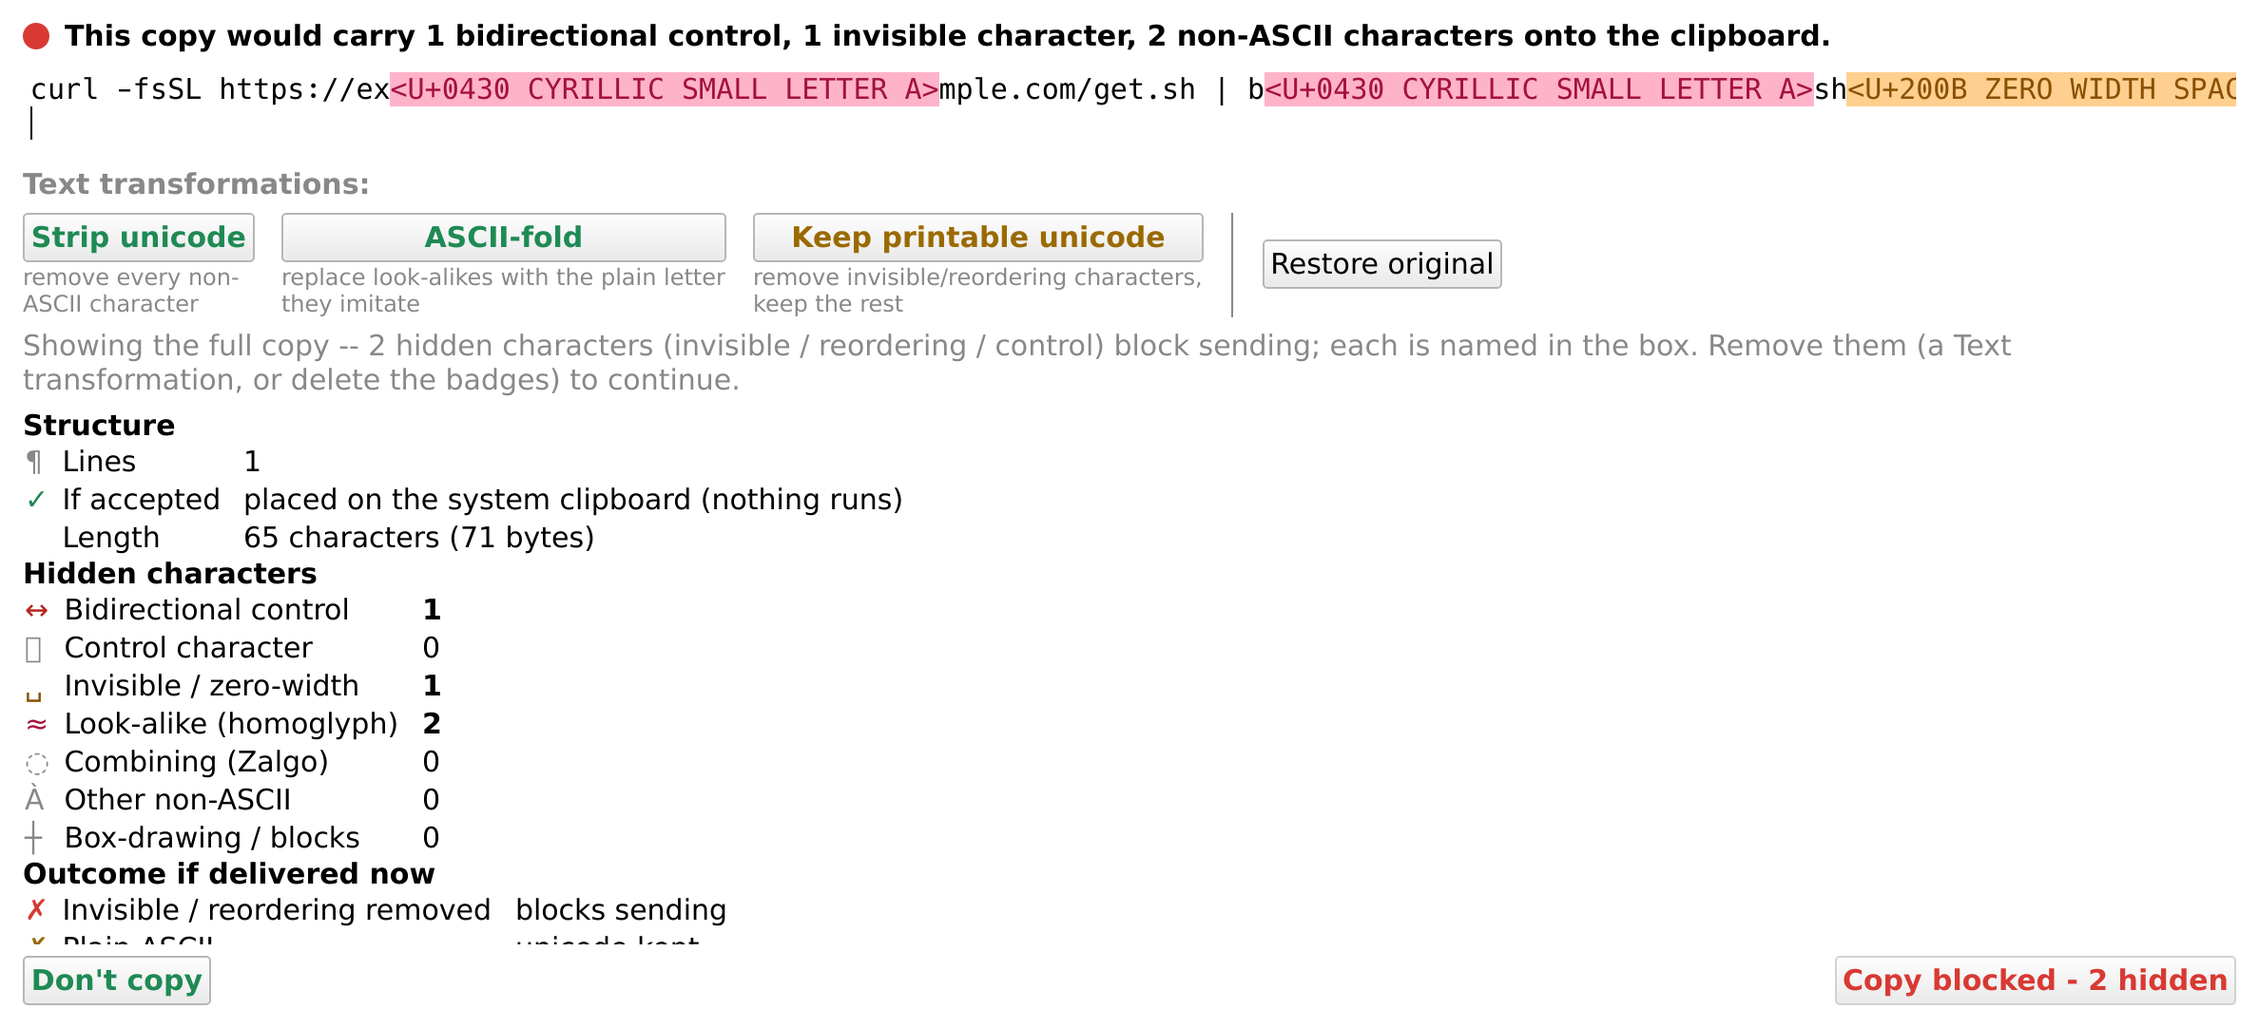
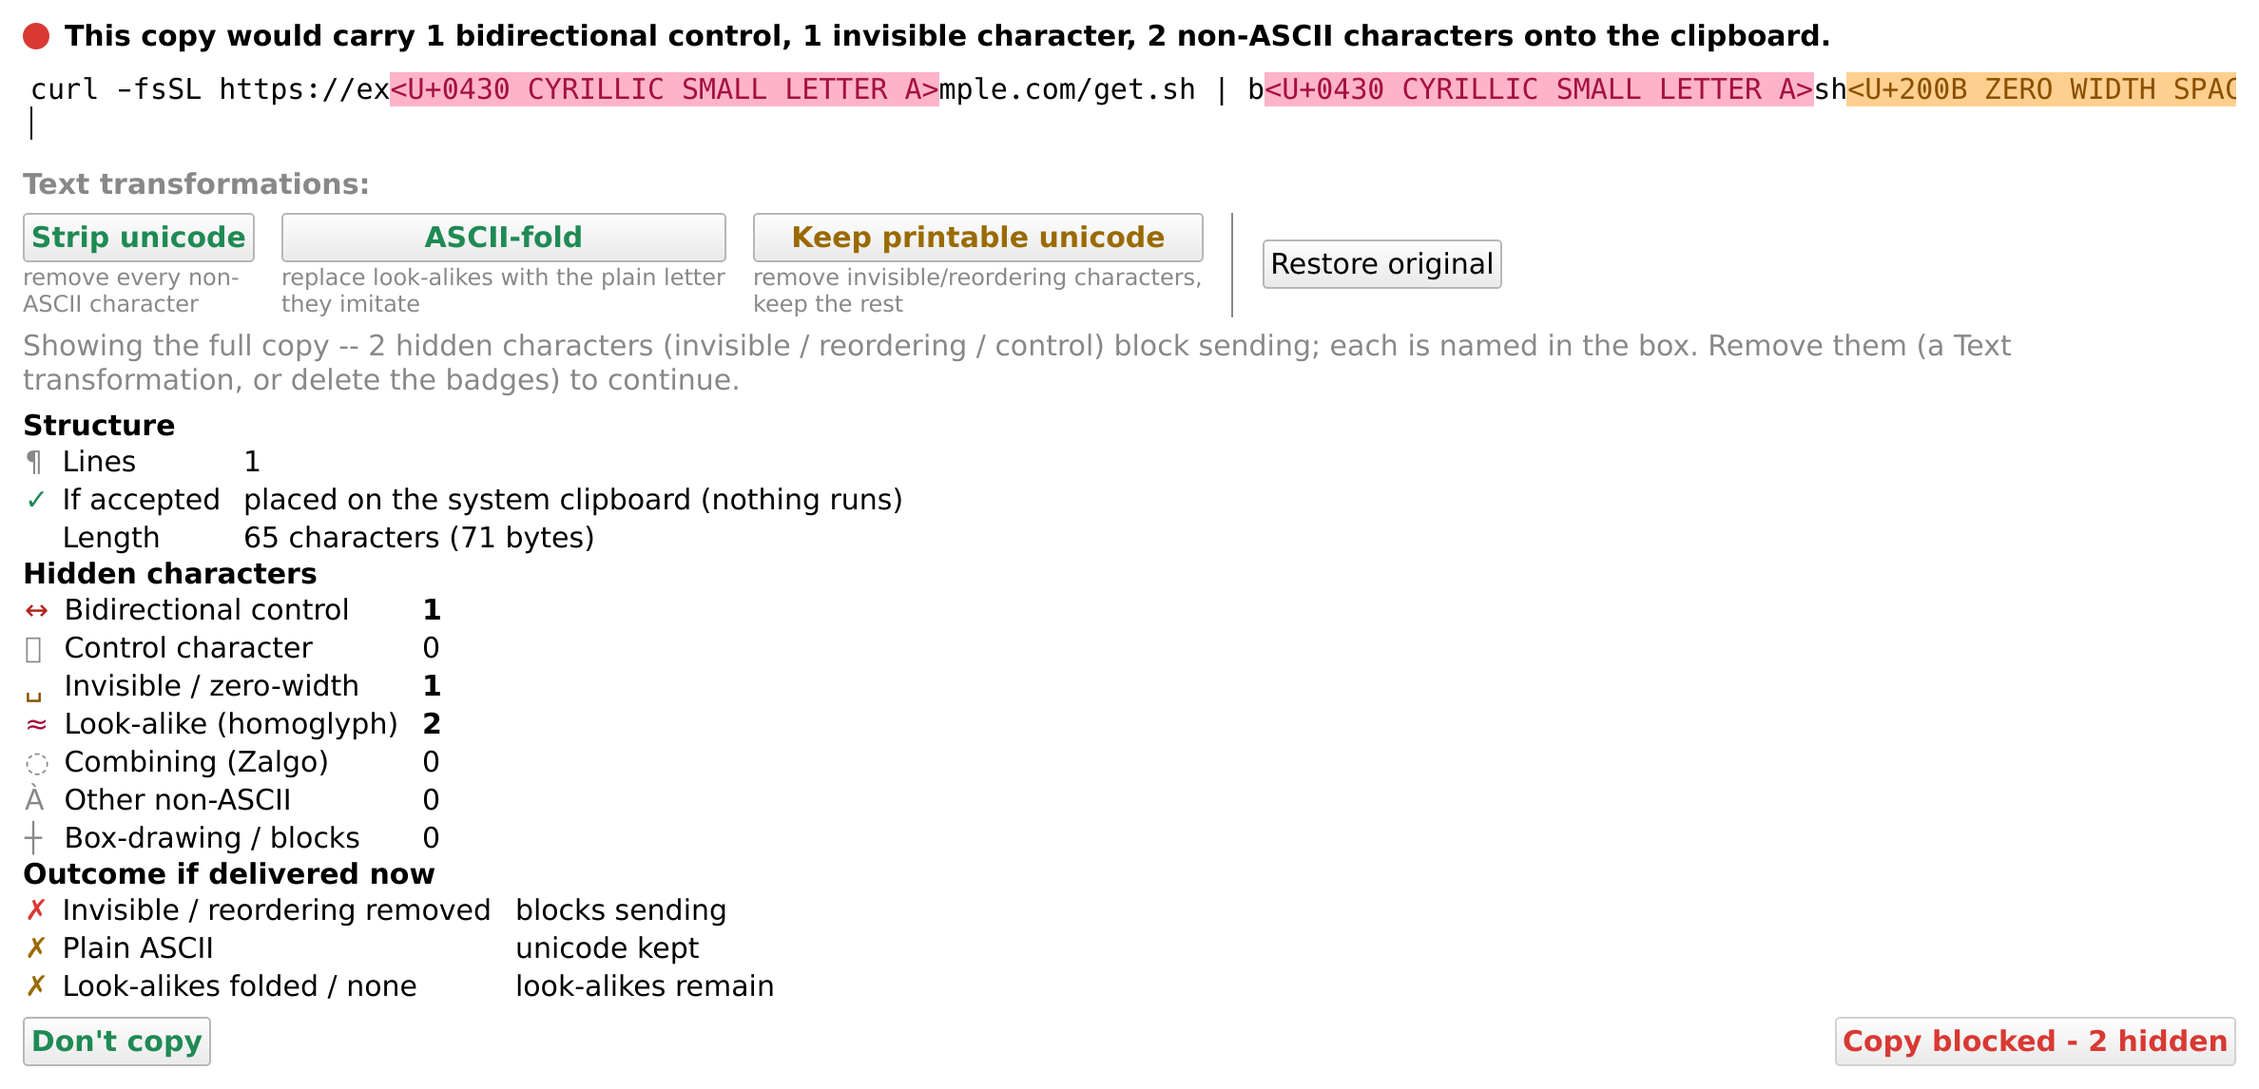
Regenerate review shots with the fixed bar layout
- paste/copy-warning shots were captured before the overlap fix, so the decision
  row sat over the bottom Outcome row. Regenerated with the fixed generator; the
  full breakdown now shows above the buttons.
- Correct the stale 2376x622 aspect hint to the real 2376x1146 (height:auto uses
  it to reserve space), removing the on-load layout shift.

diff --git a/index.html b/index.html
@@ -304,7 +304,7 @@
   <figure class="shot" style="max-width:1000px;margin:28px auto 0">
     <figcaption class="shotname"><b>The paste review</b> - a <code>curl | bash</code> line hiding two Cyrillic
       homoglyphs (in <code>example</code> and <code>bash</code>), a zero-width space and a right-to-left override.</figcaption>
-    <a href="/shots/paste-warning.webp" target="_blank" rel="noopener"><img src="/shots/paste-warning.webp" width="2376" height="622" loading="lazy" alt="secure-terminal's in-window paste-review bar holding a hostile 'curl | bash' paste before any byte reaches the shell. A red dot and the summary 'This paste hides 1 bidirectional control, 1 invisible character, 2 non-ASCII characters.' head the bar, with a Restore original button, a safe-green Reject button and a red, disabled 'Paste blocked - 2 hidden' button top-right. Below is the ONE editable box that opens FULLY REVEALED: nothing is dropped, so the two Cyrillic look-alikes are highlighted and named inline as U+0430 CYRILLIC SMALL LETTER A, and the invisible and the reordering override are shown IN PLACE as named badges, U+200B ZERO WIDTH SPACE and U+202E RIGHT-TO-LEFT OVERRIDE. A status line reads 'Showing the full paste - 2 hidden characters (invisible / reordering / control) block sending; each is named in the box. Remove them (a Text transformation, or delete the badges) to continue.' Under a 'Text transformations:' heading three buttons offer Strip unicode, ASCII-fold and Keep printable unicode, each with a plain-language gloss. A Structure section lists 1 line, an 'If accepted: waits on the command line - press Enter to run' guarantee and a 65-character length, and a live per-class Hidden-characters table names Bidirectional control 1, Invisible / zero-width 1 and Look-alike (homoglyph) 2, every other class 0."></a>
+    <a href="/shots/paste-warning.webp" target="_blank" rel="noopener"><img src="/shots/paste-warning.webp" width="2376" height="1146" loading="lazy" alt="secure-terminal's in-window paste-review bar holding a hostile 'curl | bash' paste before any byte reaches the shell. A red dot and the summary 'This paste hides 1 bidirectional control, 1 invisible character, 2 non-ASCII characters.' head the bar, with a Restore original button, a safe-green Reject button and a red, disabled 'Paste blocked - 2 hidden' button top-right. Below is the ONE editable box that opens FULLY REVEALED: nothing is dropped, so the two Cyrillic look-alikes are highlighted and named inline as U+0430 CYRILLIC SMALL LETTER A, and the invisible and the reordering override are shown IN PLACE as named badges, U+200B ZERO WIDTH SPACE and U+202E RIGHT-TO-LEFT OVERRIDE. A status line reads 'Showing the full paste - 2 hidden characters (invisible / reordering / control) block sending; each is named in the box. Remove them (a Text transformation, or delete the badges) to continue.' Under a 'Text transformations:' heading three buttons offer Strip unicode, ASCII-fold and Keep printable unicode, each with a plain-language gloss. A Structure section lists 1 line, an 'If accepted: waits on the command line - press Enter to run' guarantee and a 65-character length, and a live per-class Hidden-characters table names Bidirectional control 1, Invisible / zero-width 1 and Look-alike (homoglyph) 2, every other class 0."></a>
     <figcaption>The bar names what is hidden at the top, then shows the paste in <b>one editable box that opens
       fully revealed</b> - nothing is silently pre-dropped, so a trap cannot hide by being cleaned away before
       you see it: each look-alike is tinted and named inline, and every invisible or reordering character is
@@ -319,7 +319,7 @@
   <figure class="shot" style="max-width:1000px;margin:28px auto 0">
     <figcaption class="shotname"><b>The same bar, for copy going the other way</b> - selecting and copying that
       same line in Show mode, before it reaches the system clipboard.</figcaption>
-    <a href="/shots/copy-warning.webp" target="_blank" rel="noopener"><img src="/shots/copy-warning.webp" width="2376" height="622" loading="lazy" alt="secure-terminal's review bar reviewing a copy going out to the system clipboard. The summary reads 'This copy would carry 1 bidirectional control, 1 invisible character, 2 non-ASCII characters onto the clipboard.' It is the same fully-revealed single-box layout as the paste bar - the two Cyrillic look-alikes highlighted and named inline, the invisible and the reordering override shown in place as named badges - with a 'Showing the full copy - 2 hidden characters block sending' status line, Strip unicode / ASCII-fold / Keep printable unicode transforms, a Structure section whose 'If accepted' guarantee reads 'placed on the system clipboard (nothing runs)', and a live per-class Hidden-characters table naming Bidirectional control 1, Invisible / zero-width 1 and Look-alike (homoglyph) 2. The reject button reads Don't copy and the Copy button is disabled and red, 'Copy blocked - 2 hidden'; there is no countdown, since a copy is not executed."></a>
+    <a href="/shots/copy-warning.webp" target="_blank" rel="noopener"><img src="/shots/copy-warning.webp" width="2376" height="1146" loading="lazy" alt="secure-terminal's review bar reviewing a copy going out to the system clipboard. The summary reads 'This copy would carry 1 bidirectional control, 1 invisible character, 2 non-ASCII characters onto the clipboard.' It is the same fully-revealed single-box layout as the paste bar - the two Cyrillic look-alikes highlighted and named inline, the invisible and the reordering override shown in place as named badges - with a 'Showing the full copy - 2 hidden characters block sending' status line, Strip unicode / ASCII-fold / Keep printable unicode transforms, a Structure section whose 'If accepted' guarantee reads 'placed on the system clipboard (nothing runs)', and a live per-class Hidden-characters table naming Bidirectional control 1, Invisible / zero-width 1 and Look-alike (homoglyph) 2. The reject button reads Don't copy and the Copy button is disabled and red, 'Copy blocked - 2 hidden'; there is no countdown, since a copy is not executed."></a>
     <figcaption>Copy is reviewed with the <b>same fully-revealed bar</b>, relabelled for the other direction (the
       reject button reads <b>Don't copy</b>). The box is the exact preview of what would land on the clipboard,
       and the same Strip unicode / ASCII-fold / Keep printable unicode transforms clear it. The <b>If accepted</b>

diff --git a/review/index.html b/review/index.html
@@ -77,12 +77,12 @@
     <figcaption class="shotname"><b>The paste review</b> - a <code>curl | bash</code> line hiding two Cyrillic
       look-alikes (in <code>example</code> and <code>bash</code>), a zero-width space and a right-to-left override,
       opened <b>fully revealed</b>.</figcaption>
-    <a href="/shots/paste-warning.webp" target="_blank" rel="noopener"><img src="/shots/paste-warning.webp" width="2376" height="622" loading="lazy" alt="secure-terminal's in-window paste-review bar holding a hostile 'curl | bash' paste before any byte reaches the shell. A red dot and the summary 'This paste hides 1 bidirectional control, 1 invisible character, 2 non-ASCII characters.' head the bar, with a Restore original button, a safe-green Reject button and a red, disabled 'Paste blocked - 2 hidden' button top-right. The ONE editable box opens fully revealed: nothing is dropped, so the two Cyrillic look-alikes are highlighted and named inline as U+0430 CYRILLIC SMALL LETTER A, and the invisible and the reordering override are shown in place as named badges, U+200B ZERO WIDTH SPACE and U+202E RIGHT-TO-LEFT OVERRIDE. A status line reads 'Showing the full paste - 2 hidden characters block sending; each is named in the box. Remove them to continue.' Under a 'Text transformations:' heading, Strip unicode, ASCII-fold and Keep printable unicode buttons each carry a plain-language gloss. A Structure section lists 1 line, an 'If accepted: waits on the command line - press Enter to run' guarantee and a 65-character length; a live per-class Hidden-characters table names Bidirectional control 1, Invisible / zero-width 1 and Look-alike (homoglyph) 2, every other class 0."></a>
+    <a href="/shots/paste-warning.webp" target="_blank" rel="noopener"><img src="/shots/paste-warning.webp" width="2376" height="1146" loading="lazy" alt="secure-terminal's in-window paste-review bar holding a hostile 'curl | bash' paste before any byte reaches the shell. A red dot and the summary 'This paste hides 1 bidirectional control, 1 invisible character, 2 non-ASCII characters.' head the bar, with a Restore original button, a safe-green Reject button and a red, disabled 'Paste blocked - 2 hidden' button top-right. The ONE editable box opens fully revealed: nothing is dropped, so the two Cyrillic look-alikes are highlighted and named inline as U+0430 CYRILLIC SMALL LETTER A, and the invisible and the reordering override are shown in place as named badges, U+200B ZERO WIDTH SPACE and U+202E RIGHT-TO-LEFT OVERRIDE. A status line reads 'Showing the full paste - 2 hidden characters block sending; each is named in the box. Remove them to continue.' Under a 'Text transformations:' heading, Strip unicode, ASCII-fold and Keep printable unicode buttons each carry a plain-language gloss. A Structure section lists 1 line, an 'If accepted: waits on the command line - press Enter to run' guarantee and a 65-character length; a live per-class Hidden-characters table names Bidirectional control 1, Invisible / zero-width 1 and Look-alike (homoglyph) 2, every other class 0."></a>
   </figure>
   <figure class="shot" style="max-width:1000px;margin:24px auto 0">
     <figcaption class="shotname"><b>The same bar for a copy</b> - the "If accepted" row is present here too, and
       reads <code>placed on the system clipboard (nothing runs)</code>.</figcaption>
-    <a href="/shots/copy-warning.webp" target="_blank" rel="noopener"><img src="/shots/copy-warning.webp" width="2376" height="622" loading="lazy" alt="secure-terminal's review bar reviewing a copy going out to the system clipboard. The summary reads 'This copy would carry 1 bidirectional control, 1 invisible character, 2 non-ASCII characters onto the clipboard.' It is the same fully-revealed single-box layout as the paste bar, with Strip unicode / ASCII-fold / Keep printable unicode transforms and a Structure section whose 'If accepted' guarantee reads 'placed on the system clipboard (nothing runs)'. The reject button reads Don't copy and the Copy button is disabled and red, 'Copy blocked - 2 hidden'; there is no countdown, since a copy is not executed."></a>
+    <a href="/shots/copy-warning.webp" target="_blank" rel="noopener"><img src="/shots/copy-warning.webp" width="2376" height="1146" loading="lazy" alt="secure-terminal's review bar reviewing a copy going out to the system clipboard. The summary reads 'This copy would carry 1 bidirectional control, 1 invisible character, 2 non-ASCII characters onto the clipboard.' It is the same fully-revealed single-box layout as the paste bar, with Strip unicode / ASCII-fold / Keep printable unicode transforms and a Structure section whose 'If accepted' guarantee reads 'placed on the system clipboard (nothing runs)'. The reject button reads Don't copy and the Copy button is disabled and red, 'Copy blocked - 2 hidden'; there is no countdown, since a copy is not executed."></a>
   </figure>
   <div class="repro"><div class="reprohd"><a class="repro-try" href="/screenshots/#shot-paste-review">Reproduce this</a> <span class="rnote">&middot; put a hostile paste on the clipboard and Ctrl-Shift-V into secure-terminal - the bar holds it; copyable commands are on the <a href="/screenshots/#shot-paste-review">screenshots</a> and <a href="/comparison/">comparison</a> pages.</span></div></div>
 </div>

diff --git a/comparison/index.html b/comparison/index.html
@@ -389,7 +389,7 @@ cat random.payload</code><button class="copybtn" type="button" hidden>Copy</butt
           </tr>
           <tr class="minfo"><td colspan="3"><div class="rowinfo"><input class="rowtoggle" type="checkbox" id="ri-paste"><label class="rowsum" for="ri-paste">The command you copy is not the command you run<span class="ihint"><span class="ihint-show">Show</span><span class="ihint-hide">Hide</span></span></label><div class="ibody">
             <p>A command copied from a web page can carry a whole second command chained on with <code>&amp;&amp;</code> and an invisible byte at the seam - it draws nothing, so a normal terminal shows no sign it is there. Modern shells mitigate multi-line paste with bracketed paste, but it is opt-in and one-line <code>&amp;&amp;</code> tricks slip through. secure-terminal catches any invisible, control or bidi character in a paste, names what is hidden, and lets you drop it to ASCII or cancel. See the <b><a href="/attacks/#paste-demo">live pastejacking demo</a></b> and the full still-applicable list on the <a href="/attacks/">attacks page</a>.</p>
-            <figure class="shot" style="margin-top:6px"><figcaption class="shotname"><b>secure-terminal's paste review</b> - the same hostile <code>curl | bash</code> paste, held inside the window before a byte reaches the shell: the summary names what is hidden, and ONE editable, revealed box is the exact preview of what would cross - the look-alikes shown highlighted and named inline, the invisibles dropped. Strip unicode, ASCII-fold and Restore-original buttons transform the box in place, and a live per-class table breaks down what is still hidden. Rendered headless from the real review bar.</figcaption><a href="/shots/paste-warning.webp" target="_blank" rel="noopener"><img src="/shots/paste-warning.webp" width="2376" height="622" loading="lazy" alt="secure-terminal's in-window paste-review bar holding a hostile curl-bash paste: a summary of what is hidden, ONE editable revealed box showing the paste with its two Cyrillic look-alikes highlighted and named inline as U+0430 CYRILLIC SMALL LETTER A while the invisibles are dropped, a 'Keeping printable unicode' status line, Strip unicode / ASCII-fold / Restore original paste buttons, a Structure section, and a live per-class Hidden-characters table naming Look-alike (homoglyph) 2 in its risk-class colour."></a></figure>
+            <figure class="shot" style="margin-top:6px"><figcaption class="shotname"><b>secure-terminal's paste review</b> - the same hostile <code>curl | bash</code> paste, held inside the window before a byte reaches the shell: the summary names what is hidden, and ONE editable, revealed box is the exact preview of what would cross - the look-alikes shown highlighted and named inline, the invisibles dropped. Strip unicode, ASCII-fold and Restore-original buttons transform the box in place, and a live per-class table breaks down what is still hidden. Rendered headless from the real review bar.</figcaption><a href="/shots/paste-warning.webp" target="_blank" rel="noopener"><img src="/shots/paste-warning.webp" width="2376" height="1146" loading="lazy" alt="secure-terminal's in-window paste-review bar holding a hostile curl-bash paste: a summary of what is hidden, ONE editable revealed box showing the paste with its two Cyrillic look-alikes highlighted and named inline as U+0430 CYRILLIC SMALL LETTER A while the invisibles are dropped, a 'Keeping printable unicode' status line, Strip unicode / ASCII-fold / Restore original paste buttons, a Structure section, and a live per-class Hidden-characters table naming Look-alike (homoglyph) 2 in its risk-class colour."></a></figure>
           <div class="repro sandbox"><div class="reprohd"><a class="repro-try" href="/attacks/#paste-demo">Try the live paste demo</a> <span class="sbtag">sandbox VM only</span> <span class="rnote">&middot; then paste (Ctrl-Shift-V) into secure-terminal</span> &middot; <a href="https://github.com/secure-terminal/terminal-poc-corpus/tree/master/poc/bracketed-paste-bypass-2021" rel="noopener">view the PoC on GitHub &rarr;</a></div><div class="copybox"><code class="cmd">base64 -d poc/bracketed-paste-bypass-2021/payload.b64 &gt; paste.payload</code><button class="copybtn" type="button" hidden>Copy</button></div><div class="copybox"><code class="cmd">xclip -selection clipboard &lt; paste.payload    # X11</code><button class="copybtn" type="button" hidden>Copy</button></div><div class="copybox"><code class="cmd">wl-copy &lt; paste.payload    # Wayland</code><button class="copybtn" type="button" hidden>Copy</button></div></div></div></div></td></tr>
 
           <tr class="mrow" id="row-fullscreen">

diff --git a/screenshots/index.html b/screenshots/index.html
@@ -81,12 +81,12 @@
 
   <h3 id="shot-paste-review"><a class="h-anchor" href="#shot-paste-review">Paste review bar</a></h3>
   <p class="catdesc">a hostile <code>curl | bash</code> paste held before a byte reaches the shell, every hidden character named inline.</p>
-  <div class="shotgrid"><figure class="shot"><a href="/shots/paste-warning.webp" target="_blank" rel="noopener"><img src="/shots/paste-warning.webp" width="2376" height="622" loading="lazy" alt="secure-terminal paste review bar holding a hostile paste, every hidden character named inline."></a></figure></div>
+  <div class="shotgrid"><figure class="shot"><a href="/shots/paste-warning.webp" target="_blank" rel="noopener"><img src="/shots/paste-warning.webp" width="2376" height="1146" loading="lazy" alt="secure-terminal paste review bar holding a hostile paste, every hidden character named inline."></a></figure></div>
   <div class="repro sandbox"><div class="reprohd"><span class="repro-try">Reproduce</span> <span class="sbtag">sandbox VM only</span> <span class="rnote">&middot; a pasted attack, not cat - Ctrl-Shift-V into secure-terminal and the review bar holds it</span> &middot; <a href="https://github.com/secure-terminal/terminal-poc-corpus/tree/master/poc/bracketed-paste-bypass-2021" rel="noopener">view the PoC on GitHub &rarr;</a></div><div class="copybox"><code class="cmd">base64 -d poc/bracketed-paste-bypass-2021/payload.b64 &gt; paste.payload</code><button class="copybtn" type="button" hidden>Copy</button></div><div class="copybox"><code class="cmd">xclip -selection clipboard &lt; paste.payload    # X11</code><button class="copybtn" type="button" hidden>Copy</button></div><div class="copybox"><code class="cmd">wl-copy &lt; paste.payload    # Wayland</code><button class="copybtn" type="button" hidden>Copy</button></div></div>
 
   <h3 id="shot-copy-review"><a class="h-anchor" href="#shot-copy-review">Copy review bar</a></h3>
   <p class="catdesc">the same review applied to text leaving for the system clipboard.</p>
-  <div class="shotgrid"><figure class="shot"><a href="/shots/copy-warning.webp" target="_blank" rel="noopener"><img src="/shots/copy-warning.webp" width="2376" height="622" loading="lazy" alt="secure-terminal copy review bar reviewing text going to the system clipboard."></a></figure></div>
+  <div class="shotgrid"><figure class="shot"><a href="/shots/copy-warning.webp" target="_blank" rel="noopener"><img src="/shots/copy-warning.webp" width="2376" height="1146" loading="lazy" alt="secure-terminal copy review bar reviewing text going to the system clipboard."></a></figure></div>
   <div class="repro"><div class="reprohd"><span class="repro-try">Reproduce</span> <span class="rnote">&middot; print text with a hidden byte, then select and copy it in secure-terminal - the review bar holds it before the clipboard</span></div><div class="copybox"><code class="cmd">printf 'admin\342\200\213istrator\n'</code><button class="copybtn" type="button" hidden>Copy</button></div></div>
 
   <h3 id="shot-modes"><a class="h-anchor" href="#shot-modes">Four display modes</a></h3>
